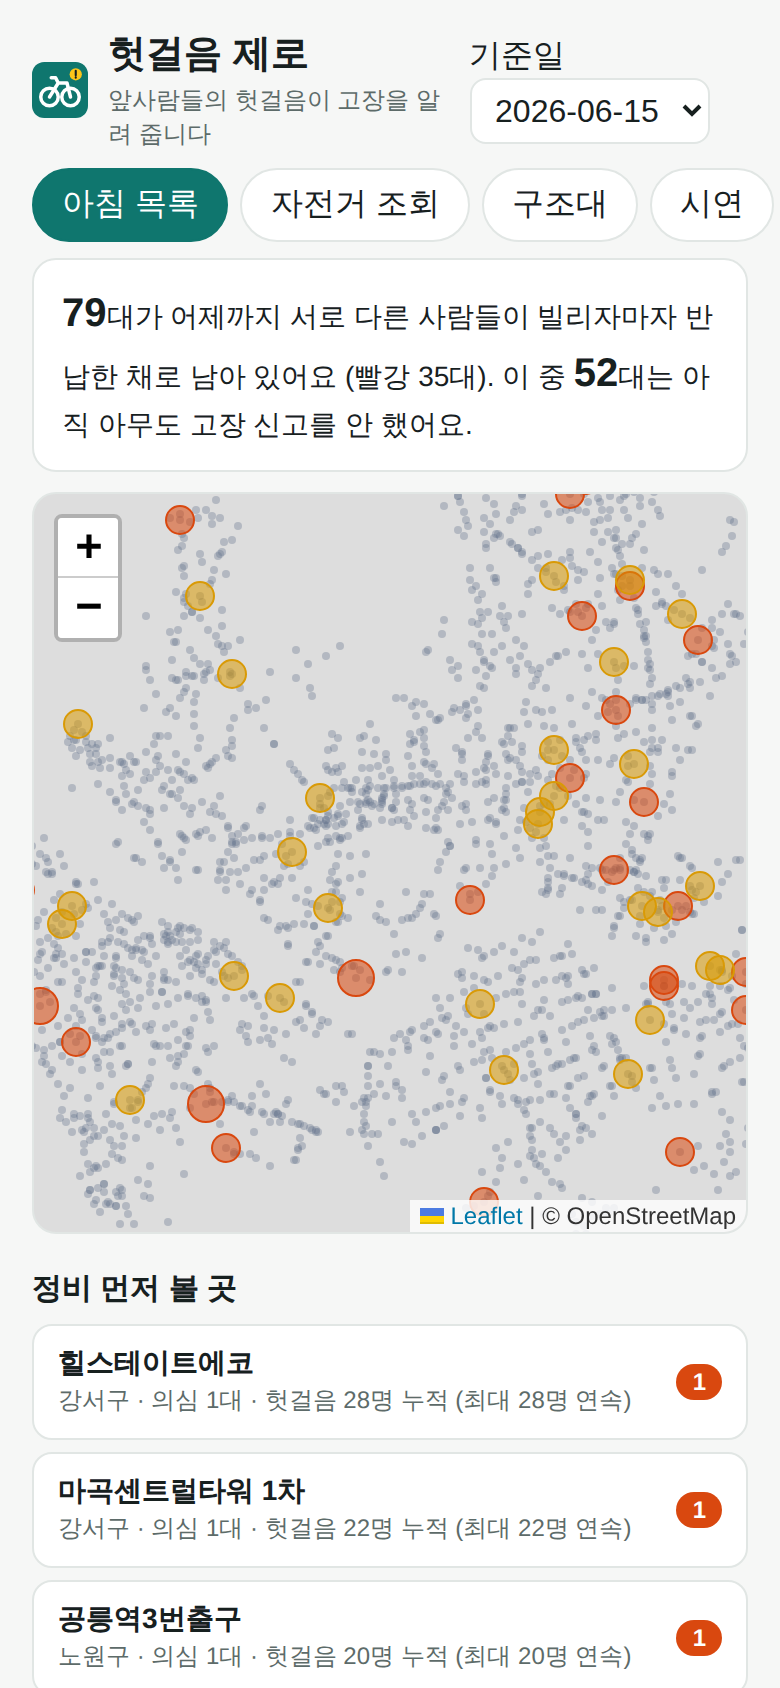
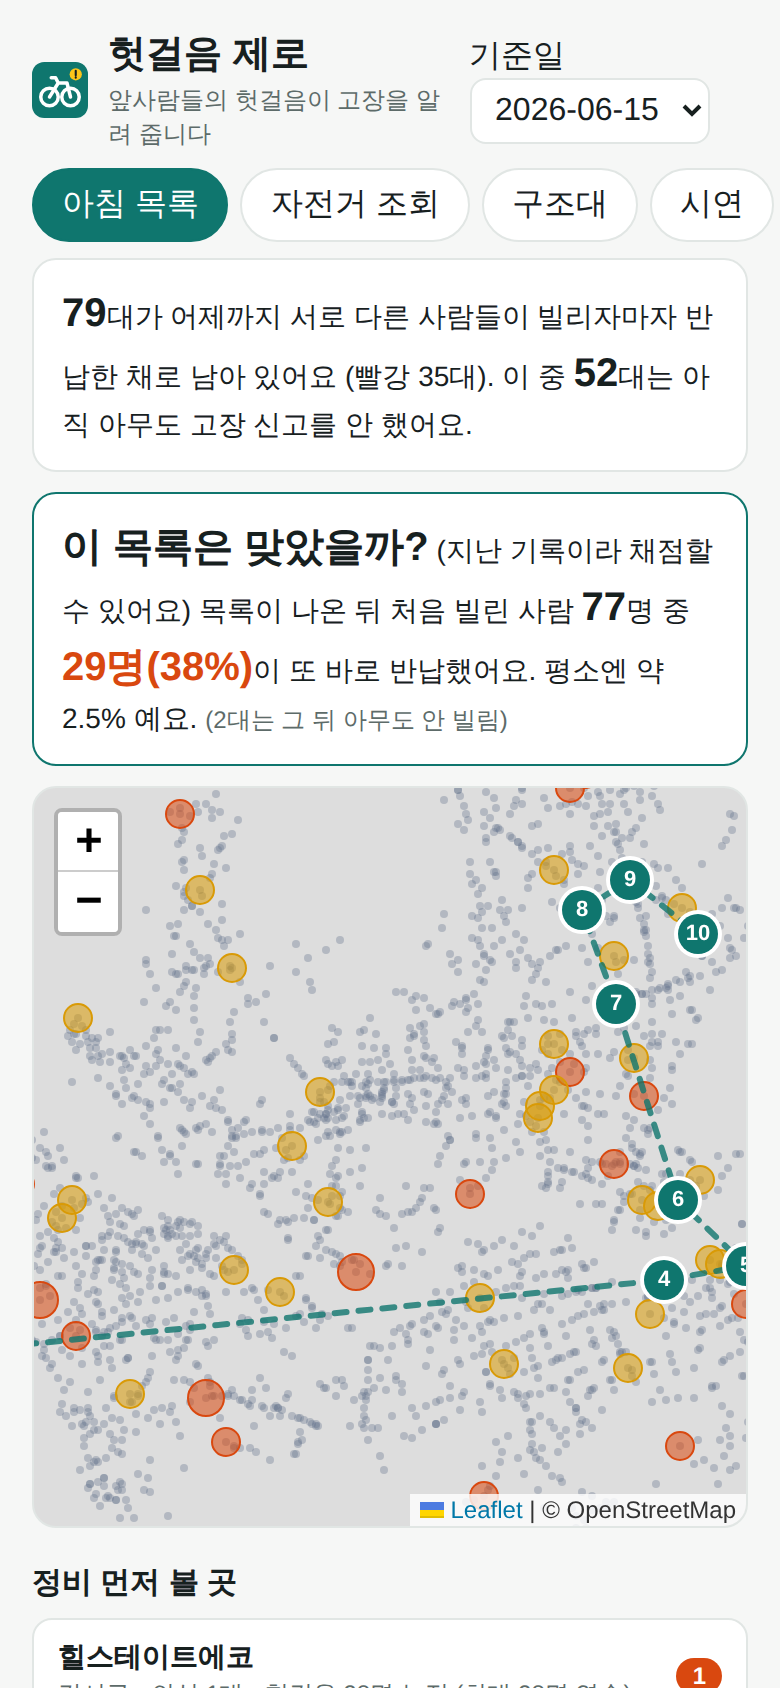
앱: 정비 동선(내 근처 10곳), 구조대 가까운 순, 아침 목록 뒤돌아 채점, 대여소 이름 빈칸 정리
- web/route.js: 가까운 곳부터 고른 뒤 2-opt 로 꼬인 구간 풀기, 지도에 번호·점선
- 구조대·동선·현장 조사가 위치 받기(locate)를 같이 씀
- 시연 날짜의 목록을 '목록이 나온 뒤 첫 이용자' 결과로 채점해 보여 줌
- tests/web/route.test.js, 화면 검사에 위치(망원역) 흉내 넣어 확인

diff --git a/web/app.js b/web/app.js
@@ -1,6 +1,7 @@
 // 헛걸음 제로 — 아침 목록(어제까지 기록), 자전거 조회, 구조대, 시연.
 const $ = (s) => document.querySelector(s);
 const state = { stations: {}, day: null, morning: null, map: null, layer: null, checked: {} };
+let here = null;   // 내 위치 (📍 버튼을 눌렀을 때만)
 // QR·입력에서 온 글자를 화면에 넣을 때는 반드시 거친다 (QR 에 HTML 을 심어 두는 장난 막기)
 const esc = (x) => String(x).replace(/[&<>"']/g, (c) => ({ "&": "&amp;", "<": "&lt;", ">": "&gt;", '"': "&quot;", "'": "&#39;" }[c]));
 
@@ -24,6 +25,7 @@ document.querySelectorAll("#tabs button").forEach((b) =>
 async function loadDay(day) {
   state.day = day;
   state.morning = await getJSON(`data/morning/${day}.json`);
+  state.morning.bikes.forEach((b) => (b.station_name = String(b.station_name).trim()));
   const bikes = state.morning.bikes;
   const red = bikes.filter((b) => b.level === "빨강").length;
   const unrep = bikes.filter((b) => !b.reported).length;
@@ -31,15 +33,62 @@ async function loadDay(day) {
     `<b>${bikes.length}</b>대가 어제까지 서로 다른 사람들이 빌리자마자 반납한 채로 남아 있어요 ` +
     `(빨강 ${red}대). 이 중 <b>${unrep}</b>대는 아직 아무도 고장 신고를 안 했어요.`;
   renderMap(bikes);
+  renderRetro(bikes);
   renderLists();
   renderRescue();
   loadChecked();
 }
+
+// 뒤돌아 채점 — 지난 기록이라 '이 목록이 나온 뒤 처음 빌린 사람' 이 어땠는지 안다 (운영에서는 다음 날 아침 채점: server/daily_job.py)
+function renderRetro(bikes) {
+  const known = bikes.filter((b) => typeof b.truth_first_rider_dud === "boolean");
+  const box = $("#morning-retro");
+  if (!known.length) { box.hidden = true; return; }
+  const hit = known.filter((b) => b.truth_first_rider_dud).length;
+  box.hidden = false;
+  box.innerHTML = `<b>이 목록은 맞았을까?</b> (지난 기록이라 채점할 수 있어요) 목록이 나온 뒤 처음 빌린 사람 <b>${known.length}</b>명 중 ` +
+    `<b class="confirmed">${hit}명(${Math.round((100 * hit) / known.length)}%)</b>이 또 바로 반납했어요. 평소엔 약 2.5% 예요.` +
+    (bikes.length > known.length ? ` <span class="muted">(${bikes.length - known.length}대는 그 뒤 아무도 안 빌림)</span>` : "");
+}
 function renderLists() {
   if (!state.morning) return;
   renderRank(state.morning.bikes);
+  renderRoute(state.morning.bikes);
   $("#bike-list").innerHTML = state.morning.bikes.slice(0, 80).map(bikeRow).join("");
 }
+
+// 정비 동선: 순위 위 10곳을 (내 위치 또는 1위 대여소에서) 도는 순서 — route.js
+function renderRoute(bikes) {
+  // 위치를 모르면 순위 위 10곳, 알면 내 근처 의심 대여소 10곳 (서울 전체 10곳을 한 사람이 도는 건 비현실적 — 기사는 구역 단위로 움직인다)
+  let groups = groupByStation(bikes).map(([id, arr]) => ({ id, arr, ...state.stations[id] })).filter((s) => s.lat);
+  if (here) groups.sort((a, b) => meters(here, a) - meters(here, b));
+  const top = groups.slice(0, 10);
+  if (!top.length) { $("#route-list").innerHTML = ""; return; }
+  const start = here ? { lat: here.lat, lon: here.lon, name: "내 위치" } : top[0];
+  const stops = planRoute(start, here ? top : top.slice(1));
+  const all = here ? stops : [top[0], ...stops];
+  let cum = 0, prev = start;
+  $("#route-list").innerHTML = all.map((s, i) => {
+    cum += meters(prev, s); prev = s;
+    return `<li><div><b>${i + 1}. ${s.name}</b><br><span class="muted">의심 ${s.arr.length}대 · 여기까지 ${(cum / 1000).toFixed(1)}km</span></div>` +
+      `<span class="tag ${s.arr.some((b) => b.level === "빨강") ? "빨강" : "노랑"}">${s.arr.length}</span></li>`;
+  }).join("") + `<li class="total"><span>${here ? "내 위치에서 " : ""}모두 돌면 직선 <b>${(cum / 1000).toFixed(1)}km</b></span></li>`;
+  if (typeof L === "undefined" || !state.map) return;
+  if (state.routeLayer) state.routeLayer.remove();
+  state.routeLayer = L.layerGroup().addTo(state.map);
+  L.polyline([start, ...stops].map((p) => [p.lat, p.lon]), { color: "#0f766e", weight: 3, opacity: 0.8, dashArray: "6 6" }).addTo(state.routeLayer);
+  all.forEach((s, i) => L.marker([s.lat, s.lon], { icon: L.divIcon({ className: "route-num", html: String(i + 1), iconSize: [20, 20] }) }).addTo(state.routeLayer));
+}
+
+// 위치 한 번 받기 (아이폰은 https 에서만) — 구조대·동선·현장 조사가 같이 쓴다
+function locate() {
+  return new Promise((ok, no) => {
+    if (!navigator.geolocation) return no(new Error("no geolocation"));
+    navigator.geolocation.getCurrentPosition((p) => { here = { lat: p.coords.latitude, lon: p.coords.longitude }; ok(here); }, no,
+      { enableHighAccuracy: true, timeout: 8000 });
+  });
+}
+const noLocation = () => toast("위치를 쓸 수 없어요(아이폰은 https 주소에서만). 목록 순서대로 보여 줄게요.");
 
 // 구조대가 서버에 보낸 확인 결과 (자전거별 {판정: 명}) — 정비 순위에 '사람이 봤음' 으로 붙인다. 서버가 없으면(정적·오프라인) 조용히 건너뜀.
 async function loadChecked() {
@@ -58,7 +107,8 @@ function checkedBadge(bike) {
 
 function bikeRow(b) {
   return `<li><div><b>${b.bike}</b> <span class="muted">${b.station_name}</span><br>` +
-    `<span class="muted">서로 다른 ${b.chain}명 연속 · 마지막 ${b.last_dud}${b.reported ? " · 신고됨" : " · <b>미신고</b>"}${checkedBadge(b.bike)}</span></div>` +
+    `<span class="muted">서로 다른 ${b.chain}명 연속 · 마지막 ${b.last_dud}${b.reported ? " · 신고됨" : " · <b>미신고</b>"}${checkedBadge(b.bike)}` +
+    `${b.truth_first_rider_dud === true ? " · 다음 사람도 반납" : b.truth_first_rider_dud === false ? " · 다음 사람은 탐" : ""}</span></div>` +
     `<span class="tag ${b.level}">${b.level}</span></li>`;
 }
 
@@ -182,12 +232,18 @@ function toast(msg) {
 function renderRescue() {
   if (!state.morning) return;
   const done = new Set(rescueLog().filter((x) => x.day === state.day).map((x) => x.bike));
-  const next = state.morning.bikes.find((b) => !done.has(b.bike));
+  let todo = state.morning.bikes.filter((b) => !done.has(b.bike));
+  const far = (b) => (here && state.stations[b.station] ? meters(here, state.stations[b.station]) : null);
+  if (here) todo = todo.slice().sort((a, b) => (far(a) ?? 1e12) - (far(b) ?? 1e12));   // 위치를 알면 가까운 순
+  const next = todo[0];
+  const away = (b) => (far(b) == null ? "" : far(b) < 1000 ? ` · ${Math.round(far(b))}m` : ` · ${(far(b) / 1000).toFixed(1)}km`);
   $("#rescue-card").innerHTML = next
-    ? `<div class="result warn"><h3>${next.station_name}의 ${next.bike}</h3>서로 다른 ${next.chain}명이 바로 반납했어요. 가까이 있다면 3초만 봐 주세요.` +
+    ? `<div class="result warn"><h3>${next.station_name}의 ${next.bike}${away(next)}</h3>서로 다른 ${next.chain}명이 바로 반납했어요. 가까이 있다면 3초만 봐 주세요.` +
       `<div class="choices"><button onclick="rescueSave('${next.bike}','체인·기어')">체인·기어</button><button onclick="rescueSave('${next.bike}','타이어')">타이어</button>` +
       `<button onclick="rescueSave('${next.bike}','안장·핸들')">안장·핸들</button><button class="fine" onclick="rescueSave('${next.bike}','멀쩡함')">멀쩡해요</button></div></div>`
     : `<div class="result ok">오늘 목록을 다 확인했어요!</div>`;
+  if (next && todo.length > 1)
+    $("#rescue-card").insertAdjacentHTML("beforeend", `<p class="muted">그다음: ${todo.slice(1, 4).map((b) => `${b.station_name} ${b.bike}${away(b)}`).join(" · ")}</p>`);
   $("#rescue-log").innerHTML = rescueLog().slice(0, 20).map((x) =>
     `<li><div><b>${x.bike}</b><br><span class="muted">${x.at}</span></div><span class="tag ${x.verdict === "멀쩡함" ? "ok" : "빨강"}">${x.verdict}</span></li>`).join("");
 }
@@ -245,7 +301,7 @@ $("#play").addEventListener("click", startReplay);
 // ── 시작
 (async () => {
   const list = await getJSON("data/stations.json");
-  list.forEach((s) => (state.stations[s.id] = s));
+  list.forEach((s) => { s.name = s.name.trim(); state.stations[s.id] = s; });   // 원본 이름 앞에 빈칸이 붙은 곳이 많다
   const days = await getJSON("data/morning/index.json");
   $("#day").innerHTML = days.map((d) => `<option ${d === "2026-06-15" ? "selected" : ""}>${d}</option>`).join("");
   $("#day").addEventListener("change", (e) => loadDay(e.target.value));
@@ -257,7 +313,6 @@ $("#play").addEventListener("click", startReplay);
 
 // ── 현장 조사 (검증용): 보이는 그대로 기록 → 서버, 안 되면 폰에 모아 두고 다음에 보냄
 const SURVEY_STATUS = ["멀쩡함", "타이어", "체인·기어", "안장·핸들", "브레이크", "기타 고장"];
-let here = null;
 function queue() { try { return JSON.parse(localStorage.getItem("survey_queue") || "[]"); } catch { return []; } }
 function setQueue(q) { try { localStorage.setItem("survey_queue", JSON.stringify(q)); return true; } catch { return false; } }
 async function flushQueue() {
@@ -282,17 +337,12 @@ function stationOptions(center, filter = "") {
   $("#survey-station").innerHTML = list.slice(0, center ? 30 : 3000)
     .map((s) => `<option value="${s.id}">${s.name}${center ? ` · ${Math.round(dist(s, center))}m` : ""}</option>`).join("");
 }
-function dist(a, b) {
-  const R = 6371000, toR = Math.PI / 180, dLat = (b.lat - a.lat) * toR, dLon = (b.lon - a.lon) * toR;
-  const x = Math.sin(dLat / 2) ** 2 + Math.cos(a.lat * toR) * Math.cos(b.lat * toR) * Math.sin(dLon / 2) ** 2;
-  return 2 * R * Math.asin(Math.sqrt(x));
-}
+const dist = (a, b) => meters(a, b);
 $("#station-filter").addEventListener("input", (e) => stationOptions(here, e.target.value.trim()));
-$("#near-btn").addEventListener("click", () => {
-  if (!navigator.geolocation) return toast("이 기기는 위치를 못 써요. 목록에서 골라 주세요.");
-  navigator.geolocation.getCurrentPosition((p) => { here = { lat: p.coords.latitude, lon: p.coords.longitude }; stationOptions(here, $("#station-filter").value.trim()); },
-    () => toast("위치를 쓸 수 없어요(아이폰은 https 주소에서만). 이름으로 찾아 주세요."), { enableHighAccuracy: true, timeout: 8000 });
-});
+$("#near-btn").addEventListener("click", () =>
+  locate().then(() => stationOptions(here, $("#station-filter").value.trim()), () => toast("위치를 쓸 수 없어요(아이폰은 https 주소에서만). 이름으로 찾아 주세요.")));
+$("#rescue-near").addEventListener("click", () => locate().then(renderRescue, noLocation));
+$("#route-here").addEventListener("click", () => locate().then(renderLists, noLocation));
 // 사진(선택): 폰에서 긴 변 1280px JPEG 로 줄여서 보낸다 (원본 몇 MB → 약 150KB). 번호판·얼굴이 안 나오게 — 절차 문서.
 let surveyPhoto = null;
 async function shrink(file, max = 1280, q = 0.7) {

diff --git a/tests/web/smoke.js b/tests/web/smoke.js
@@ -16,7 +16,8 @@ const check = (ok, what) => { console.log((ok ? "  ✓ " : "  ✗ ") + what); if
   const srv = spawn(process.env.PYTHON || "python3", [path.join(ROOT, "server/app.py"), String(PORT)], { env: { ...process.env, BIKE_DB: db }, stdio: "ignore" });
   for (let i = 0; i < 50; i++) { try { await fetch(URL); break; } catch { await new Promise((r) => setTimeout(r, 100)); } }
   const browser = await launch();
-  const ctx = await browser.newContext({ viewport: { width: 390, height: 844 }, deviceScaleFactor: 2, locale: "ko-KR", serviceWorkers: "block" });
+  const ctx = await browser.newContext({ viewport: { width: 390, height: 844 }, deviceScaleFactor: 2, locale: "ko-KR", serviceWorkers: "block",
+    permissions: ["geolocation"], geolocation: { latitude: 37.5556, longitude: 126.9106 } });   // 망원역 앞에 서 있다고
   await ctx.route(/tile\.openstreetmap\.org/, (r) => r.abort());   // 검사는 바깥 지도 조각 없이 (결과가 인터넷에 안 흔들리게)
   const page = await ctx.newPage();
   const errors = [];
@@ -32,7 +33,18 @@ const check = (ok, what) => { console.log((ok ? "  ✓ " : "  ✗ ") + what); if
     check(/\d+<\/b>대가/.test(await page.innerHTML("#morning-summary")), "요약 문장");
     check((await page.$$("#station-rank li")).length === 10, "정비 순위 10곳");
     check((await page.$$("#map path.leaflet-interactive")).length > 5, "지도에 의심 대여소 표시");
+    const retro = await page.textContent("#morning-retro");
+    check(/처음 빌린 사람 \d+명 중 \d+명\(\d+%\)/.test(retro), "뒤돌아 채점: " + retro.match(/\d+명 중 \d+명\(\d+%\)/)?.[0]);
+    const route = await page.$$eval("#route-list li", (li) => li.map((x) => x.textContent));
+    check(route.length === 11 && /모두 돌면 직선 [\d.]+km/.test(route[10]), "정비 동선 10곳 + 합계 " + (route[10] || "").trim());
+    check((await page.$$("#map .route-num")).length === 10, "지도에 동선 번호");
     await shot("1_morning");
+    await page.click("#route-here");
+    await page.waitForFunction(() => document.querySelector("#route-list").textContent.includes("내 위치에서"));
+    const nearRoute = await page.$$eval("#route-list li", (li) => li.map((x) => x.textContent));
+    const km = +nearRoute[10].match(/([\d.]+)km/)[1], cityKm = +route[10].match(/([\d.]+)km/)[1];
+    check(km < cityKm, `내 근처 10곳 동선 ${km}km (순위 10곳 ${cityKm}km 보다 짧음)`);
+    await page.evaluate(() => window.scrollTo(0, 0));
     // 아이폰: 입력칸 글자가 16px 보다 작으면 누를 때 화면이 확대된다, 홈 화면 아이콘은 PNG 여야 한다
     const small = await page.$$eval("input,select", (els) => els.filter((e) => e.type !== "file" && parseFloat(getComputedStyle(e).fontSize) < 16).map((e) => e.id));
     check(small.length === 0, "입력칸 글자 16px 이상 (아이폰 확대 방지)" + (small.length ? ": " + small : ""));
@@ -56,7 +68,11 @@ const check = (ok, what) => { console.log((ok ? "  ✓ " : "  ✗ ") + what); if
 
     console.log("구조대");
     await tab("rescue");
-    const target = (await page.textContent("#rescue-card h3")).split("의 ").pop();
+    await page.click("#rescue-near");
+    await page.waitForFunction(() => /\d+(m|\.\dkm)$/.test(document.querySelector("#rescue-card h3").textContent));
+    const near = await page.textContent("#rescue-card h3");
+    check(/(\d+m|\d\.\dkm)$/.test(near), "가까운 의심 자전거부터: " + near);
+    const target = near.split("의 ").pop().split(" · ")[0];
     await page.click("#rescue-card button:has-text('타이어')");
     await page.waitForSelector(".toast");
     check((await page.textContent(".toast")).includes("1명이 이 자전거를 확인"), "제보가 서버에 들어감");

diff --git a/web/route.js b/web/route.js
@@ -1,0 +1,37 @@
+// 정비 동선 — 들를 대여소들을 도는 순서 (가까운 곳부터 고른 뒤 2-opt 로 꼬인 곳 풀기). 직선거리라 실제 길은 1.2~1.4배쯤.
+// 브라우저에서는 전역 함수, node 검사에서는 require.
+function meters(a, b) {
+  const R = 6371000, toR = Math.PI / 180, dLat = (b.lat - a.lat) * toR, dLon = (b.lon - a.lon) * toR;
+  const x = Math.sin(dLat / 2) ** 2 + Math.cos(a.lat * toR) * Math.cos(b.lat * toR) * Math.sin(dLon / 2) ** 2;
+  return 2 * R * Math.asin(Math.sqrt(x));
+}
+function pathLength(start, stops) {
+  let t = 0, cur = start;
+  for (const s of stops) { t += meters(cur, s); cur = s; }
+  return t;
+}
+// start: {lat, lon}, stops: [{lat, lon, ...}] → 같은 점들을 도는 순서 (돌아오지 않는 한 방향 길)
+function planRoute(start, stops) {
+  const left = stops.slice(), order = [];
+  let cur = start;
+  while (left.length) {
+    let k = 0;
+    for (let i = 1; i < left.length; i++) if (meters(cur, left[i]) < meters(cur, left[k])) k = i;
+    cur = left.splice(k, 1)[0];
+    order.push(cur);
+  }
+  // 2-opt: 구간 [i..j] 를 뒤집어 짧아지면 바꾼다 (점이 10~20개라 충분히 빠름)
+  const pts = [start, ...order];
+  for (let improved = true, guard = 0; improved && guard < 50; guard++) {
+    improved = false;
+    for (let i = 1; i < pts.length - 1; i++) {
+      for (let j = i + 1; j < pts.length; j++) {
+        const a = pts[i - 1], b = pts[i], c = pts[j], d = pts[j + 1];
+        const before = meters(a, b) + (d ? meters(c, d) : 0), after = meters(a, c) + (d ? meters(b, d) : 0);
+        if (after < before - 1e-6) { pts.splice(i, j - i + 1, ...pts.slice(i, j + 1).reverse()); improved = true; }
+      }
+    }
+  }
+  return pts.slice(1);
+}
+if (typeof module !== "undefined") module.exports = { meters, pathLength, planRoute };

diff --git a/tests/web/route.test.js b/tests/web/route.test.js
@@ -1,0 +1,22 @@
+// 정비 동선 단위 검사: node tests/web/route.test.js
+const assert = require("assert");
+const { meters, pathLength, planRoute } = require("../../web/route.js");
+assert(Math.abs(meters({ lat: 37.5, lon: 127 }, { lat: 37.51, lon: 127 }) - 1112) < 5, "위도 0.01° ≈ 1.11km");
+// 한 줄로 늘어선 점을 뒤섞어 줘도 끝에서 끝으로 한 번에 간다
+const line = [0, 1, 2, 3, 4, 5, 6, 7].map((i) => ({ id: i, lat: 37.5, lon: 127 + 0.01 * i }));
+const shuffled = [5, 1, 7, 3, 0, 6, 2, 4].map((i) => line[i]);
+const r = planRoute({ lat: 37.5, lon: 126.99 }, shuffled);
+assert.deepStrictEqual(r.map((p) => p.id), [0, 1, 2, 3, 4, 5, 6, 7]);
+// 가까운 곳부터만 고르면 생기는 되돌아가기를 2-opt 가 줄인다 (무작위 30점 × 20번: 항상 탐욕법 이하)
+let seed = 7; const rnd = () => (seed = (seed * 16807) % 2147483647) / 2147483647;
+for (let t = 0; t < 20; t++) {
+  const pts = Array.from({ length: 30 }, (_, i) => ({ id: i, lat: 37.45 + 0.15 * rnd(), lon: 126.85 + 0.3 * rnd() }));
+  const start = { lat: 37.55, lon: 127 };
+  const got = planRoute(start, pts);
+  assert.strictEqual(new Set(got.map((p) => p.id)).size, 30, "모든 점을 한 번씩");
+  const greedy = []; let cur = start; const left = pts.slice();
+  while (left.length) { left.sort((a, b) => meters(cur, a) - meters(cur, b)); cur = left.shift(); greedy.push(cur); }
+  assert(pathLength(start, got) <= pathLength(start, greedy) + 1e-6);
+}
+assert.deepStrictEqual(planRoute({ lat: 0, lon: 0 }, []), []);
+console.log("동선 검사 합격");

diff --git a/web/index.html b/web/index.html
@@ -30,9 +30,13 @@
 <main>
   <section id="morning" class="tab on">
     <div class="summary" id="morning-summary"></div>
+    <div class="summary retro" id="morning-retro" hidden></div>
     <div id="map"></div>
     <h2>정비 먼저 볼 곳</h2>
     <ol id="station-rank" class="rank"></ol>
+    <h2>정비 동선 <span class="muted">(10곳을 도는 순서, 직선거리)</span></h2>
+    <button id="route-here" class="secondary">📍 내 근처 10곳으로</button>
+    <ol id="route-list" class="rank route"></ol>
     <h2>의심 자전거</h2>
     <ul id="bike-list" class="bikes"></ul>
   </section>
@@ -48,6 +52,7 @@
 
   <section id="rescue" class="tab">
     <p class="hint">근처 의심 자전거를 3초만 봐 주세요. 확인 결과는 정비로 이어집니다.</p>
+    <button id="rescue-near" class="secondary">📍 가까운 순서로</button>
     <div id="rescue-card"></div>
     <h2>내 구조 기록</h2>
     <ul id="rescue-log" class="bikes"></ul>
@@ -85,6 +90,7 @@
 
 <script src="vendor/leaflet/leaflet.js"></script>
 <script src="vendor/jsqr/jsQR.js"></script>
+<script src="route.js"></script>
 <script src="app.js"></script>
 </body>
 </html>

diff --git a/web/sw.js b/web/sw.js
@@ -1,9 +1,9 @@
 // 오프라인에서도 시연·목록이 뜨게. 먼저 새로 받고(개발 중 옛 파일이 남지 않게), 안 되면 캐시.
 // 지도 라이브러리(Leaflet·jsQR)는 web/vendor 에 두어 같이 캐시한다 — CDN 은 브라우저 HTTP 캐시가 비면 오프라인에서 사라졌다.
-const CACHE = "hz-v6";
+const CACHE = "hz-v7";
 const TILES = "hz-tiles";   // 실제로 본 지도 조각만 (미리 대량으로 받지 않음 — OSM 지도 조각 이용 정책)
 const MAX_TILES = 500;
-const SHELL = ["./", "index.html", "style.css", "app.js", "icon.svg", "icon-180.png", "icon-192.png", "manifest.webmanifest",
+const SHELL = ["./", "index.html", "style.css", "route.js", "app.js", "icon.svg", "icon-180.png", "icon-192.png", "manifest.webmanifest",
   "vendor/leaflet/leaflet.js", "vendor/leaflet/leaflet.css", "vendor/jsqr/jsQR.js",
   "data/stations.json", "data/morning/index.json", "data/replay_2026-06-15.json", "data/morning/2026-06-15.json"];
 self.addEventListener("install", (e) => e.waitUntil(caches.open(CACHE).then((c) => c.addAll(SHELL))));

diff --git a/web/style.css b/web/style.css
@@ -62,3 +62,6 @@ footer { color: var(--muted); font-size: 11px; padding: 12px 16px 28px; text-ali
   border-radius: 10px; background: var(--card); color: var(--muted); font-size: 14px; }
 .photo-btn input { position: absolute; width: 1px; height: 1px; opacity: 0; }
 .photo-btn img { width: 48px; height: 48px; object-fit: cover; border-radius: 8px; }
+.retro { border-color: var(--accent); }
+.route li.total { justify-content: flex-start; color: var(--muted); }
+.route-num { background: var(--accent); color: #fff; border-radius: 50%; font: 700 11px/20px sans-serif; text-align: center; box-shadow: 0 0 0 2px #fff; }

diff --git a/docs/report.md b/docs/report.md
@@ -81,8 +81,9 @@
 
 ## 7. 서비스 — 헛걸음 제로 (웹앱)
 - **아침 목록**: 지도 + 정비 먼저 볼 대여소(누적 헛걸음 순) + 의심 자전거(노랑/빨강, 미신고 표시)
+- **정비 동선**: 먼저 볼 대여소 10곳(또는 내 근처 10곳)을 도는 순서와 직선거리(가까운 곳부터 고른 뒤 꼬인 구간 풀기). 시연 날짜에는 "이 목록이 나온 뒤 처음 빌린 사람" 의 결과로 목록을 뒤돌아 채점해 보여 준다(6/15: 77명 중 29명, 38% 가 또 반납).
 - **자전거 조회**: 빌리기 전 번호나 QR → "어제까지 서로 다른 28명이 바로 반납했어요, 옆 자전거를 고르세요"
-- **구조대**: 근처 의심 자전거를 3초 보고 "체인·타이어·안장·멀쩡함" 한 번 탭 → 서버에 모여, 사람이 고장이라고 확인한 대여소가 정비 순위 맨 위로 올라간다. 경보 뒤 다음 대여까지 중앙값 30분, 그 사이 같은 대여소 이용자 중앙값 2명 — 경보의 65% 는 확인해 줄 사람이 있다.
+- **구조대**: 가까운 의심 자전거부터(위치를 켜면 거리순) 3초 보고 "체인·타이어·안장·멀쩡함" 한 번 탭 → 서버에 모여, 사람이 고장이라고 확인한 대여소가 정비 순위 맨 위로 올라간다. 경보 뒤 다음 대여까지 중앙값 30분, 그 사이 같은 대여소 이용자 중앙값 2명 — 경보의 65% 는 확인해 줄 사람이 있다.
 - **현장 조사**: 대여소의 자전거를 한 대씩 보고 상태·메모·사진(폰에서 줄여 보냄)을 남긴다. 서버에 안 닿으면 폰에 모았다가 다음에 보낸다. 그달 기록이 공개되면 엔진 판단과 맞춰 95% 신뢰구간과 함께 정리(`analysis/field_validation.py`).
 - **시연**: 2026-06-15 하루를 재생 — 경보가 켜지고, 막을 수 있던 헛걸음이 쌓이고, 뒤늦은 고장 신고가 들어온다.
 

diff --git a/PLAN.md b/PLAN.md
@@ -129,4 +129,6 @@
   윌슨 95% 신뢰구간, 보고서용 `docs/field_validation.md`. 테스트 18개.
   Phase 6 (선택) — 서울시설공단 제안서 초안 `docs/proposal.md`·PDF(요청: 자전거별 기록 1시간 단위, 비용 없는 한 구 시범). 보내는 건 사용자 결정(표 7번).
   함정: 마크다운 변환기가 "12~23%" 의 물결표 한 쌍을 취소선으로 바꿈 → 물결표 이스케이프.
+- 2026-09-24 앱 기능 셋(있는 자료만으로): 정비 동선(`web/route.js`, 탐욕법 + 2-opt, 위치를 켜면 내 근처 10곳), 구조대 가까운 순, 아침 목록 뒤돌아 채점
+  (시연 날짜 6/15: 목록이 나온 뒤 첫 이용자 77명 중 29명 38% 또 반납). 대여소 이름 앞 빈칸(2,789곳 중 2,003곳) 정리. 동선 단위 검사 + 화면 검사 늘림.
 - 현재 사용자 없이 할 수 있는 큰 일은 거의 끝남. 남은 것: 키 1·2(실시간·자전거별 일별·충전기), 현장 조사, 대회 정보, Xcode(네이티브 앱), https 결정.
